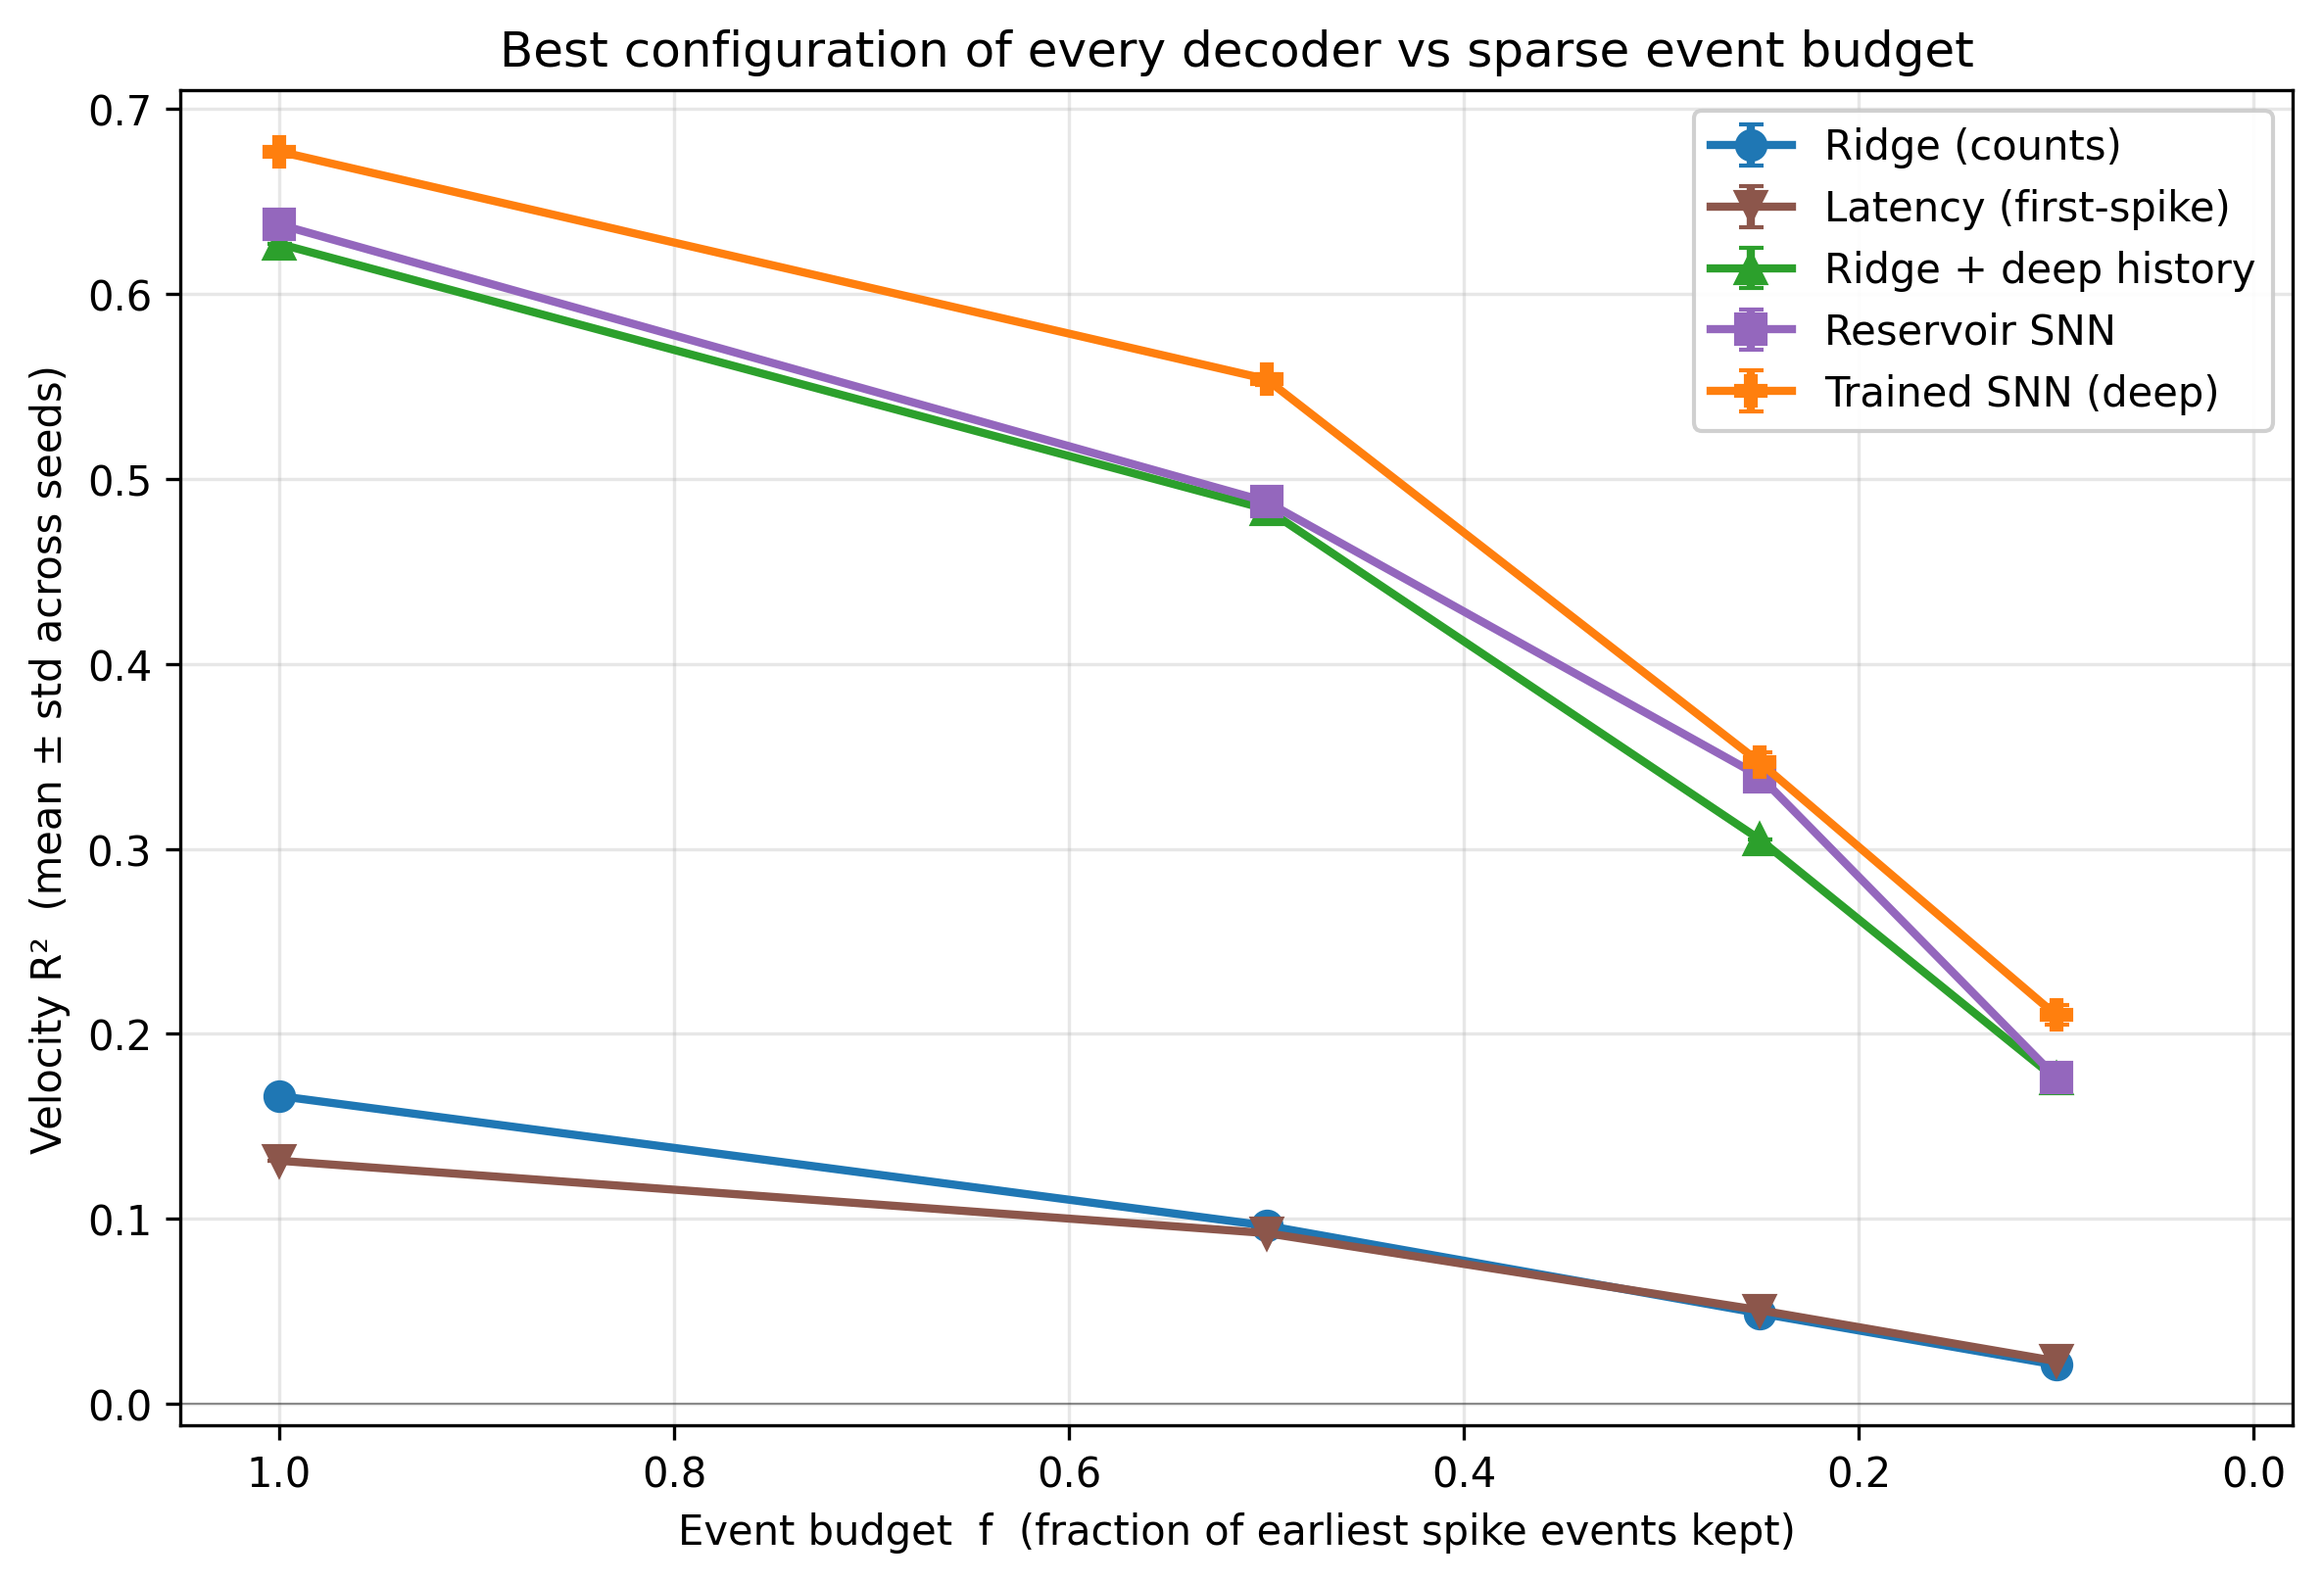
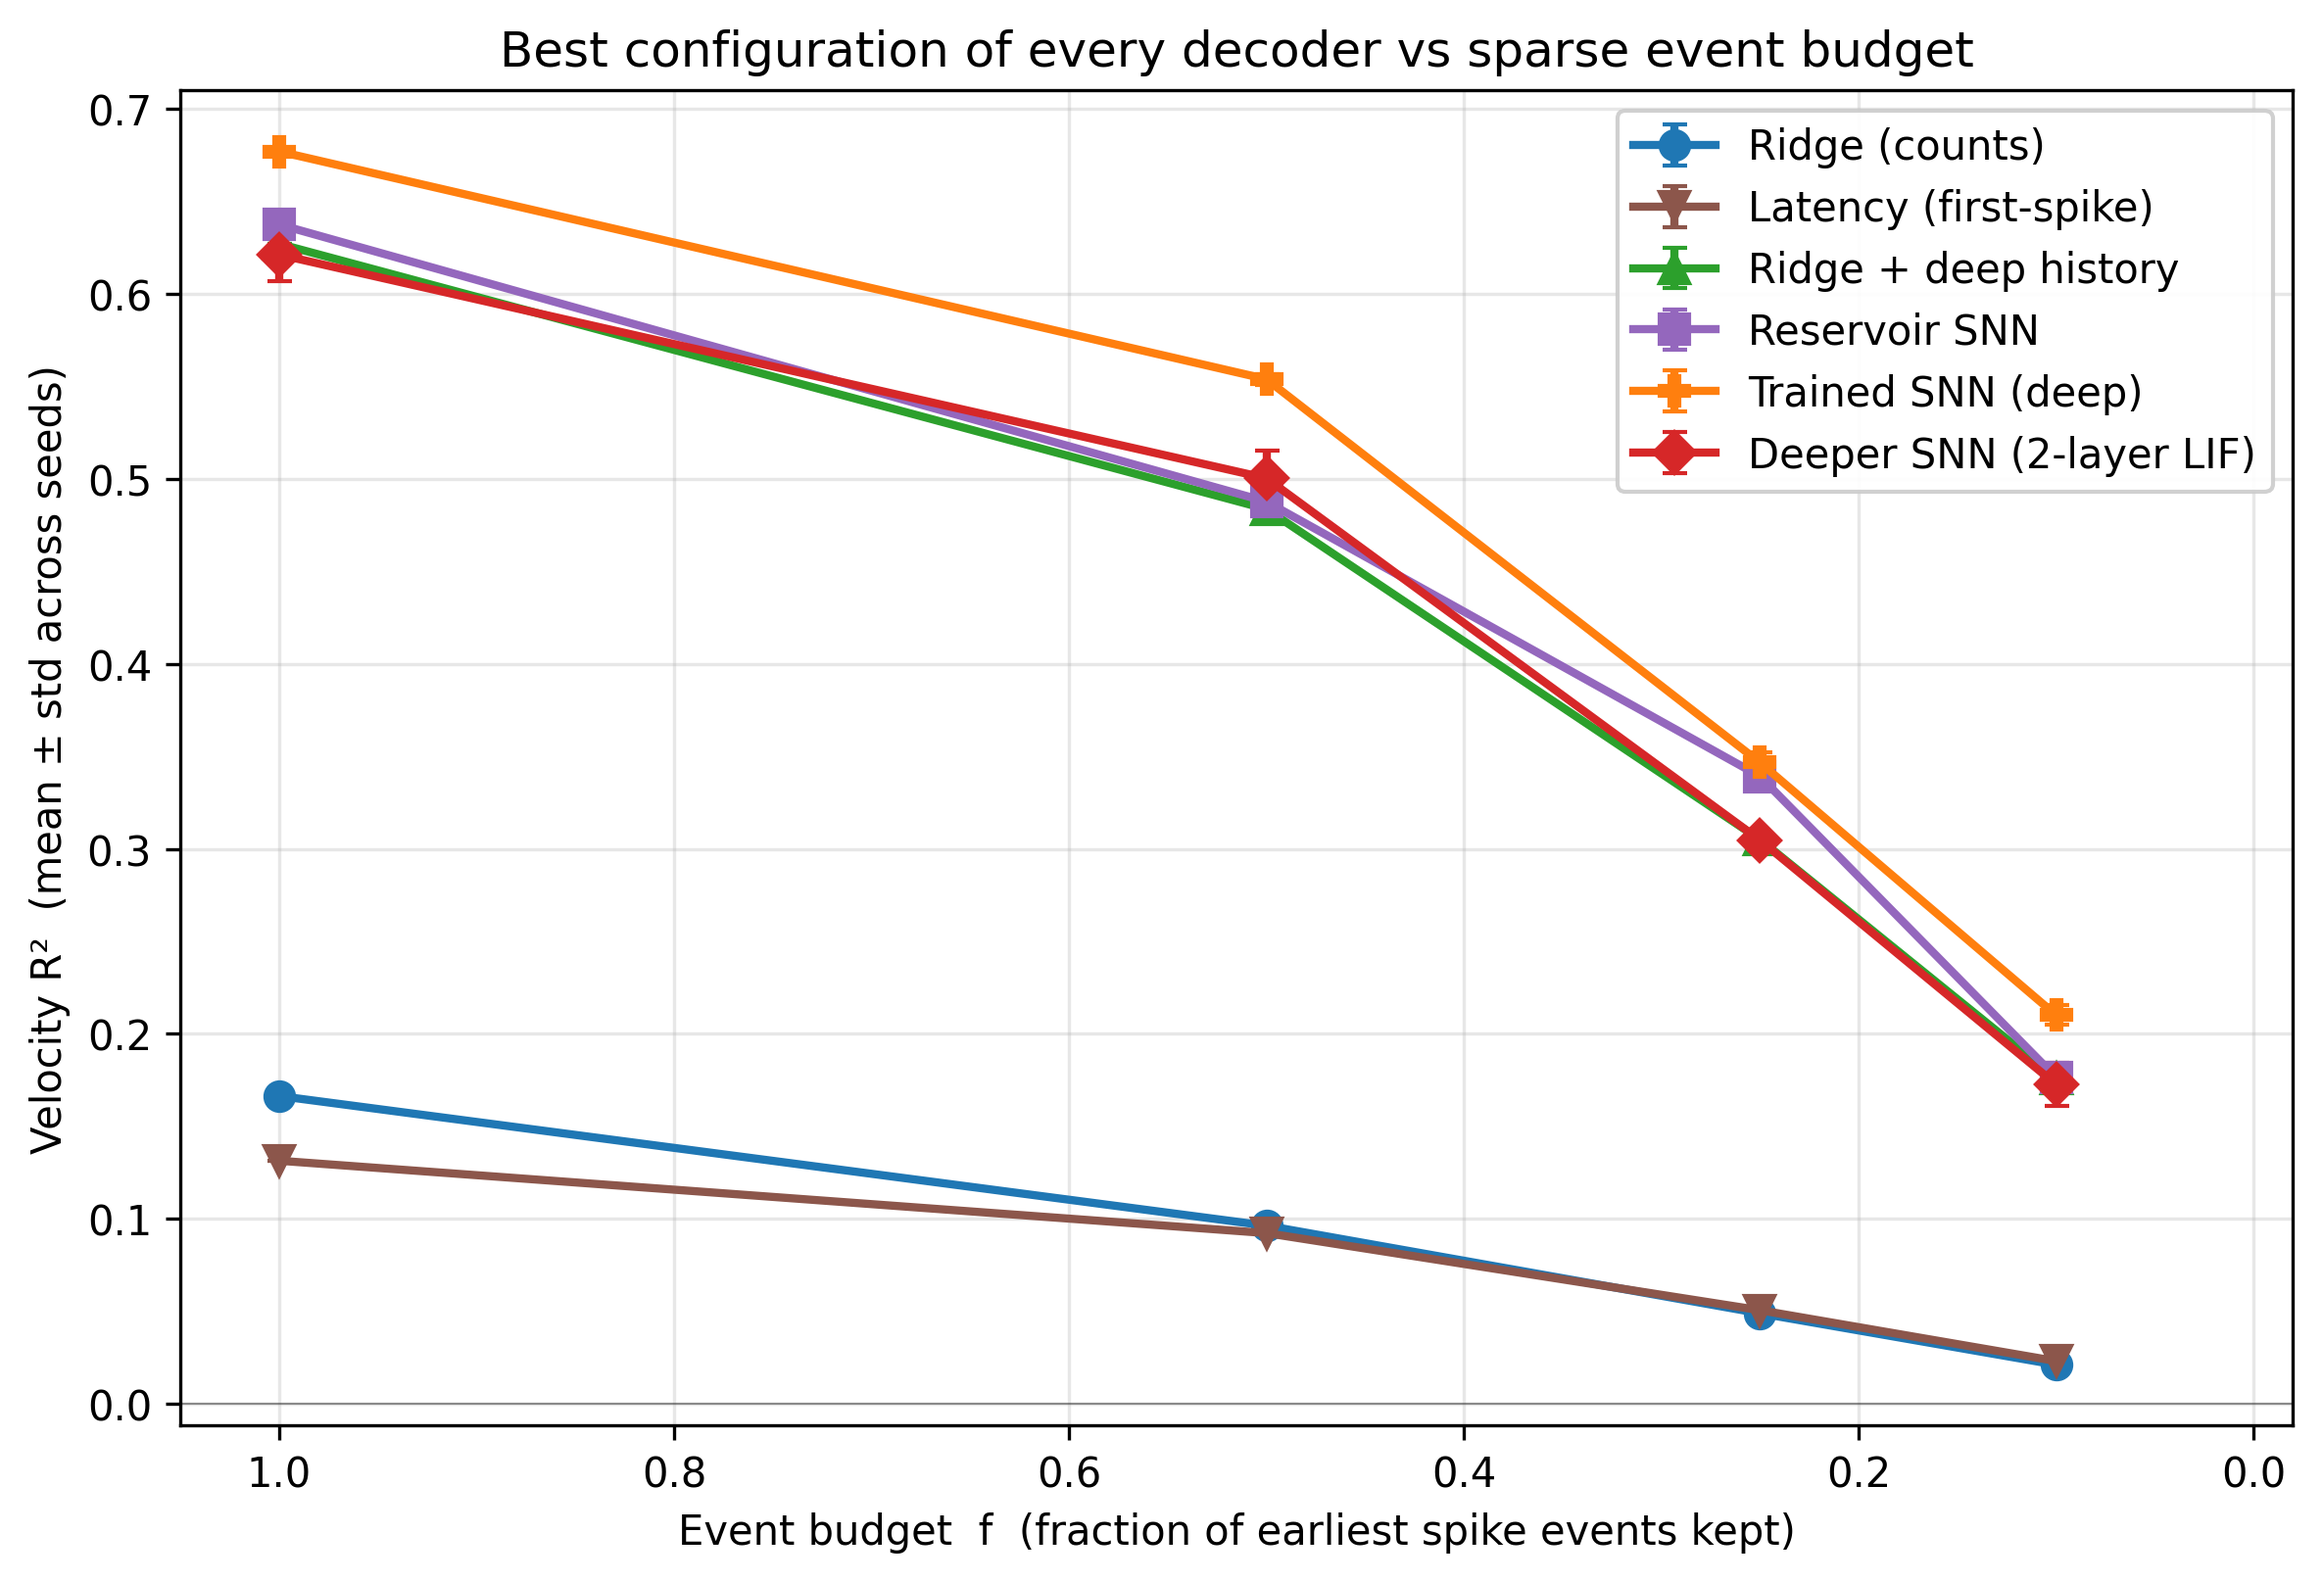
deeper SNN: 2-layer / recurrent LIF doesn't beat single-layer — context, not capacity
Ran the deeper SNN (multi-layer, optional recurrence) with the same readout-lag
fix. Best stack (512x512 feedforward, lag-stacked readout) reaches 0.621/0.500/
0.305/0.173 -- below the single-layer trained SNN (0.677) and the reservoir
(0.638); recurrence is worse still (~0.36, it destabilizes BPTT). So adding
depth or recurrence does not help: the bottleneck is temporal context, not model
capacity. Folded into the best-of-every-model table/figure + README note.

diff --git a/scripts/aggregate_best_models.py b/scripts/aggregate_best_models.py
@@ -31,7 +31,7 @@ SOURCES = [
     ("Ridge + deep history",    "json", "results/ridge/ridge_lag24_results.json",           "#2ca02c", "^"),
     ("Reservoir SNN",           "json", "results/snn/snn_results.json",                     "#9467bd", "s"),
     ("Trained SNN (deep)",      "csv",  "results/cluster/trained_snn_deep/results.csv",     "#ff7f0e", "P"),
-    ("Deeper SNN (recurrent)",  "csv",  "results/cluster/deeper_snn_deep/results.csv",      "#d62728", "D"),
+    ("Deeper SNN (2-layer LIF)", "csv",  "results/cluster/deeper_snn_deep/results.csv",      "#d62728", "D"),
 ]
 
 

diff --git a/README.md b/README.md
@@ -159,7 +159,10 @@ full budget — temporal context, not decoder class, carries the decode; (2) the
 neuromorphic SNNs are the **best** decoders, not only the most efficient — a
 trained LIF SNN whose readout sees a lag-stacked window of its per-bin hidden
 activity tops every event budget, with the fixed-encoder reservoir SNN just
-behind. Full per-model results + figure in [`results/best/`](results/best/).
+behind. A 2-layer / recurrent LIF (the *deeper SNN* capacity probe) does **not**
+improve on this — its best stack reaches only 0.621 and recurrence is worse —
+confirming the bottleneck is temporal context, not model capacity. Full
+per-model results + figure in [`results/best/`](results/best/).
 
 <p align="center">
   <img src="results/best/best_frontier.png" width="640"

diff --git a/results/best/best_models.md b/results/best/best_models.md
@@ -5,3 +5,4 @@
 | Ridge + deep history | +0.627 ± 0.000 | +0.484 ± 0.000 | +0.305 ± 0.000 | +0.176 ± 0.000 |
 | Reservoir SNN | +0.638 ± 0.000 | +0.488 ± 0.003 | +0.339 ± 0.007 | +0.177 ± 0.007 |
 | Trained SNN (deep) | +0.677 ± 0.000 | +0.554 ± 0.003 | +0.347 ± 0.006 | +0.210 ± 0.005 |
+| Deeper SNN (2-layer LIF) | +0.621 ± 0.014 | +0.500 ± 0.015 | +0.305 ± 0.002 | +0.173 ± 0.012 |
